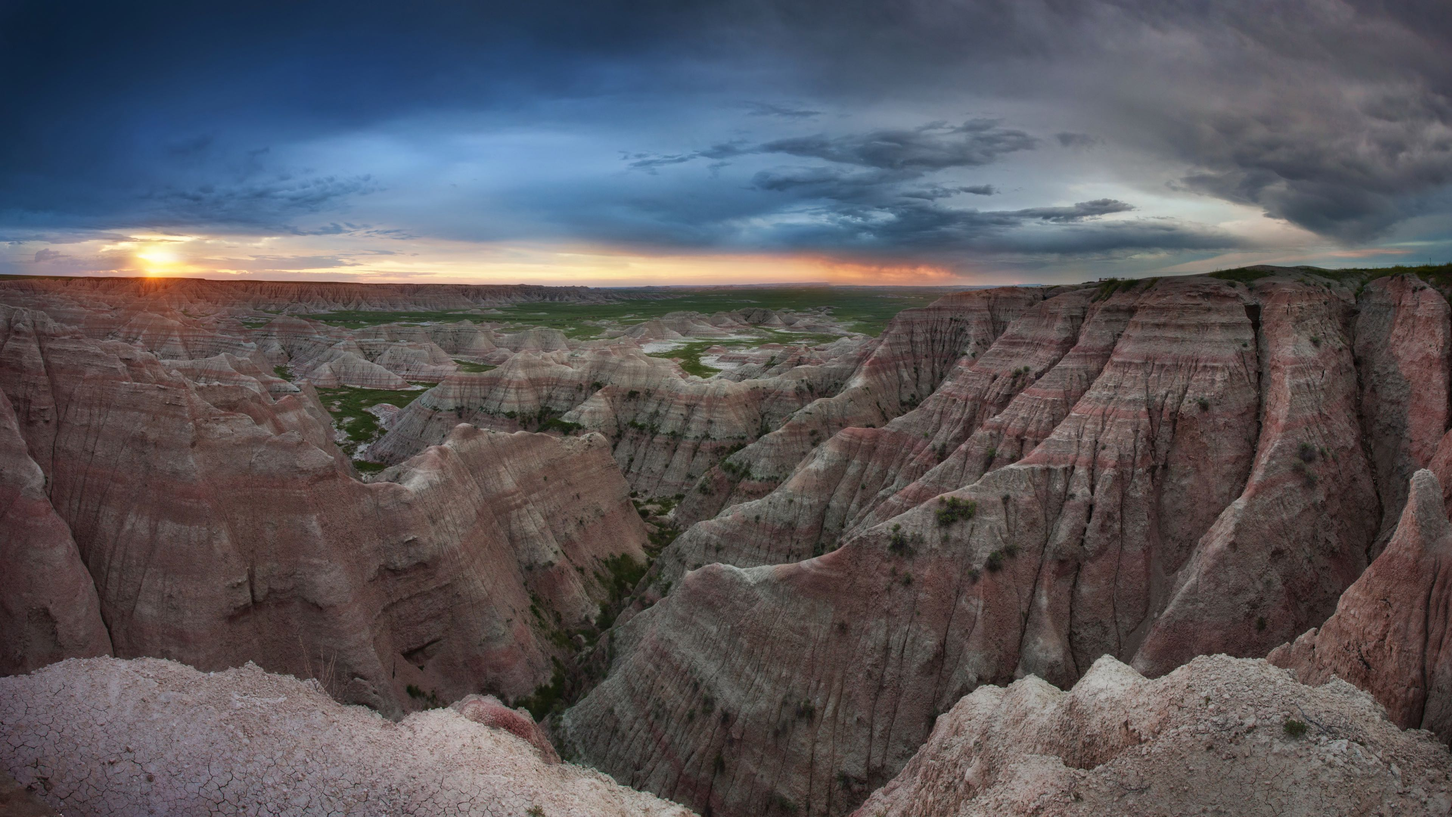
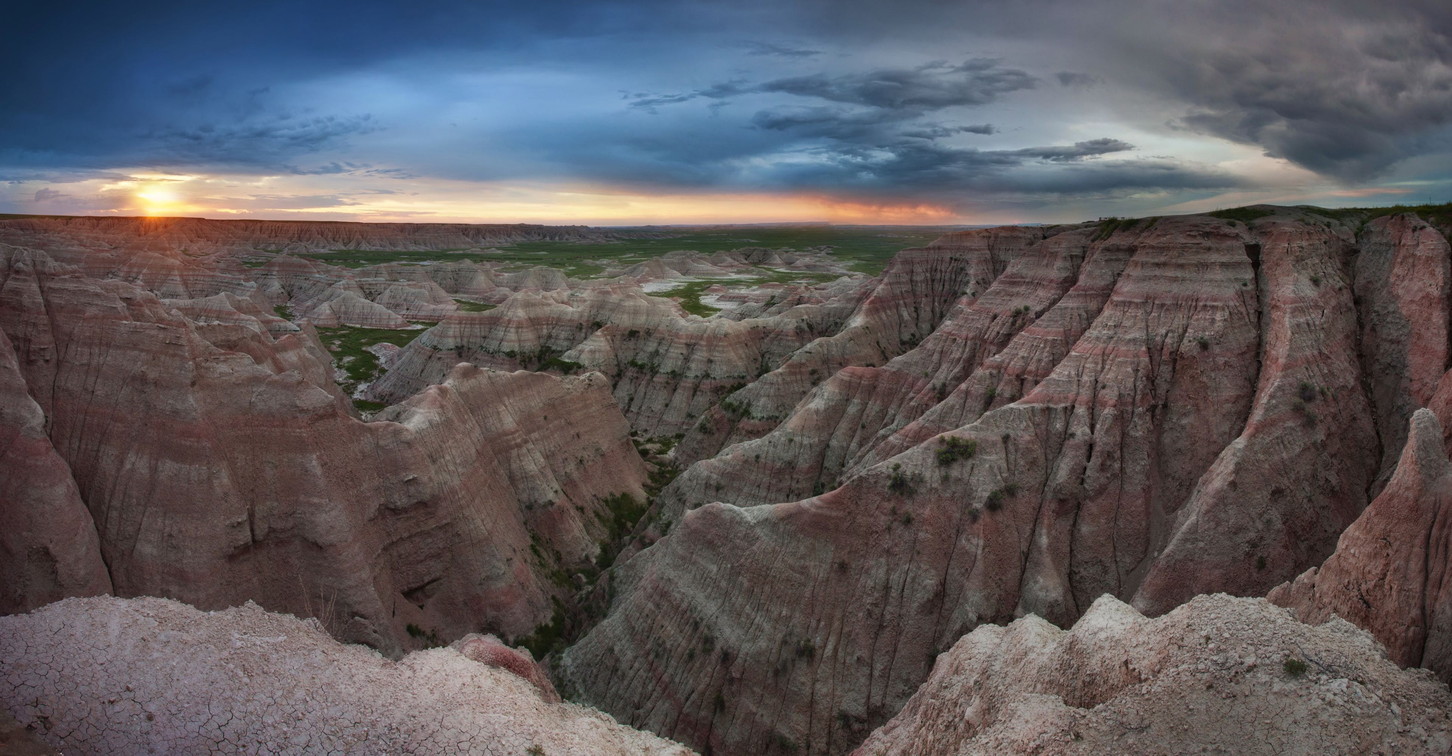
updated gitignore and css

diff --git a/assets/css/style.css b/assets/css/style.css
@@ -1,2 +1,1 @@
-@import url(http://fonts.googleapis.com/css?family=Open+Sans:300,400,800);@import url(http://fonts.googleapis.com/css?family=PT+Serif:400,700,400italic,700italic);html{font-size:100%;line-height:1.5em}html{font-family:sans-serif;-ms-text-size-adjust:100%;-webkit-text-size-adjust:100%}body{margin:0}article,aside,details,figcaption,figure,footer,header,hgroup,main,menu,nav,section,summary{display:block}audio,canvas,progress,video{display:inline-block;*display:inline;*zoom:1;vertical-align:baseline}audio:not([controls]){display:none;height:0}[hidden]{display:none}template{display:none}a{background-color:transparent}a:active,a:hover{outline:0}abbr[title]{border-bottom:1px dotted}b,strong{font-weight:bold}blockquote{margin:1.5em 40px}dfn{font-style:italic}h1{font-size:2em;line-height:1.5em;margin-top:0.75em;margin-bottom:0.75em}h2{font-size:1.5em;line-height:2em;margin-top:1em;margin-bottom:1em}h3{font-size:1.17em;line-height:1.28205em;margin-top:1.28205em;margin-bottom:1.28205em}h4{font-size:1em;line-height:1.5em;margin-top:1.5em;margin-bottom:1.5em}h5{font-size:0.83em;line-height:1.80723em;margin-top:1.80723em;margin-bottom:1.80723em}h6{font-size:0.67em;line-height:2.23881em;margin-top:2.23881em;margin-bottom:2.23881em}mark{background:#ff0;color:#000}p,pre{margin:1.5em 0}small{font-size:80%}sub,sup{font-size:75%;line-height:0;position:relative;vertical-align:baseline}sup{top:-0.5em}sub{bottom:-0.25em}dl,menu,ol,ul{margin:1.5em 0}dd{margin:0 0 0 40px}menu,ol,ul{padding:0 0 0 40px}nav ul,nav ol{list-style:none;list-style-image:none}img{border:0;-ms-interpolation-mode:bicubic}svg:not(:root){overflow:hidden}figure{margin:1.5em 40px}hr{-moz-box-sizing:content-box;-webkit-box-sizing:content-box;box-sizing:content-box;height:0}pre{overflow:auto}code,kbd,pre,samp{font-family:monospace, monospace;font-size:1em}form{margin:0}button,input,optgroup,select,textarea{color:inherit;font:inherit;margin:0;*font-family:sans-serif;*vertical-align:middle}button{overflow:visible}button,select{text-transform:none}button,html input[type="button"],input[type="reset"],input[type="submit"]{-webkit-appearance:button;cursor:pointer;*overflow:visible}button[disabled],html input[disabled]{cursor:default}button::-moz-focus-inner,input::-moz-focus-inner{border:0;padding:0}input{line-height:normal}input[type="checkbox"],input[type="radio"]{-moz-box-sizing:border-box;-webkit-box-sizing:border-box;box-sizing:border-box;padding:0;*height:13px;*width:13px}input[type="number"]::-webkit-inner-spin-button,input[type="number"]::-webkit-outer-spin-button{height:auto}input[type="search"]{-webkit-appearance:textfield;-moz-box-sizing:content-box;-webkit-box-sizing:content-box;box-sizing:content-box}input[type="search"]::-webkit-search-cancel-button,input[type="search"]::-webkit-search-decoration{-webkit-appearance:none}fieldset{margin:0 2px;border-color:#c0c0c0;border-top-width:0.0625em;border-top-style:solid;padding-top:0.4625em;border-bottom-width:0.0625em;border-bottom-style:solid;padding-bottom:0.9125em;border-left-width:0.0625em;border-left-style:solid;padding-left:0.875em;border-right-width:0.0625em;border-right-style:solid;padding-right:0.875em}legend{border:0;padding:0;*margin-left:-7px}textarea{overflow:auto}optgroup{font-weight:bold}table{border-collapse:collapse;border-spacing:0}td,th{padding:0}.button,.button-secondary,.button-tertiary,.button__outline{background-color:#2e8b57;display:inline-block;position:relative;font-family:"Open Sans",Helvetica,Arial,sans-serif;text-decoration:none;color:#fff;font-size:1em;line-height:1.2em;font-weight:normal;padding:.5em 1.5em;border:0;border-radius:4px;cursor:pointer;margin-bottom:.5em;-moz-transition:background-color 0.14s ease-in-out;-o-transition:background-color 0.14s ease-in-out;-webkit-transition:background-color 0.14s ease-in-out;transition:background-color 0.14s ease-in-out}.button:hover,.button-secondary:hover,.button-tertiary:hover,.button__outline:hover,.button:focus,.button-secondary:focus,.button-tertiary:focus,.button__outline:focus{color:#fff;text-decoration:none;background-color:#21653f}.button:active,.button-secondary:active,.button-tertiary:active,.button__outline:active{top:1px}.button-secondary{background-color:#233E5B}.button-secondary:hover{background-color:#152536}.button-tertiary{background-color:#aaa}.button-tertiary:hover{background-color:#919191}.button__outline{background-color:transparent;border:3px solid #2e8b57;color:#2e8b57}.button__outline:hover{background-color:#2e8b57;color:#fff}label{display:block;margin-bottom:5px}input[type=text],input[type=email],input[type=phone],input[type=password],input[type=number],input[type=search],textarea{background:#e6e6e6;padding:5px;outline:none;border:none;height:44px;width:300px;margin-bottom:.5rem}input[type=text]:focus,input[type=email]:focus,input[type=phone]:focus,input[type=password]:focus,input[type=number]:focus,input[type=search]:focus,textarea:focus{border:1px solid #2e8b57}input[type=text].full-width,input[type=email].full-width,input[type=phone].full-width,input[type=password].full-width,input[type=number].full-width,input[type=search].full-width,textarea.full-width{width:100%}textarea{height:132px}form{margin-bottom:40px}form .field{margin-bottom:20px}form .note{margin-top:5px;color:#aaa}form .req{font-style:italic}form .error .reason{margin-top:5px;color:#FF4136}form .error input[type=text],form .error input[type=email],form .error input[type=phone],form .error input[type=password],form .error input[type=number],form .error input[type=search],form .error textarea{border-color:#FF4136}table{width:100%;border:1px solid #d0d0d0;margin-bottom:1.5em}table caption{margin:0 0 7px;font-size:0.75em;color:#aaa;text-transform:uppercase;letter-spacing:1px}tr{border-bottom:1px solid #d0d0d0}tr:nth-child(even){background-color:#f7f7f7}td{padding:7px;border-right:1px solid #d0d0d0}td:last-child{border-right:0}th{background-color:#f7f7f7;border-bottom:1px solid #d0d0d0;border-right:1px solid #d0d0d0}th:last-child{border-right:0}.highlight{white-space:pre;overflow:auto;word-wrap:normal;-moz-border-radius:3px;-webkit-border-radius:3px;border-radius:3px;padding:20px;background:#343642;color:#C1C2C3}.highlight .hll{background-color:#ffc}.highlight .gd{color:#2e3436;background-color:#0e1416}.highlight .gr{color:#eeeeec;background-color:#c00}.highlight .gi{color:#babdb6;background-color:#1f2b2d}.highlight .go{color:#2c3032;background-color:#2c3032}.highlight .kt{color:#e3e7df}.highlight .ni{color:#888a85}.highlight .c,.highlight .cm,.highlight .c1,.highlight .cs{color:#8D9684}.highlight .err,.highlight .g,.highlight .l,.highlight .n,.highlight .x,.highlight .p,.highlight .ge,.highlight .gp,.highlight .gs,.highlight .gt,.highlight .ld,.highlight .s,.highlight .nc,.highlight .nd,.highlight .ne,.highlight .nl,.highlight .nn,.highlight .nx,.highlight .py,.highlight .ow,.highlight .w,.highlight .sb,.highlight .sc,.highlight .sd,.highlight .s2,.highlight .se,.highlight .sh,.highlight .si,.highlight .sx,.highlight .sr,.highlight .s1,.highlight .ss,.highlight .bp{color:#C1C2C3}.highlight .k,.highlight .kc,.highlight .kd,.highlight .kn,.highlight .kp,.highlight .kr,.highlight .nt{color:#729fcf}.highlight .cp,.highlight .gh,.highlight .gu,.highlight .na,.highlight .nf{color:#E9A94B}.highlight .m,.highlight .nb,.highlight .no,.highlight .mf,.highlight .mh,.highlight .mi,.highlight .mo,.highlight .il{color:#8ae234}.highlight .o{color:#989DAA}.highlight .nv,.highlight .vc,.highlight .vg,.highlight .vi{color:#fff}body{font-size:1em;line-height:1.45}body .intro{font-size:1.25em;line-height:1.7}@media (min-width: 43.75em){body{font-size:1em;line-height:1.375}}h1,.h1,h2,.h2,h3,.h3,h4,.h4,h5,.h5,h6,.h6{margin:.5rem 0 1.5rem;font-family:"Open Sans",Helvetica,Arial,sans-serif}h1,.h1{font-size:2em;line-height:1.25}@media (min-width: 43.75em){h1,.h1{font-size:2.5em;line-height:1.125}}@media (min-width: 56.25em){h1,.h1{font-size:3em;line-height:1.05}}h2,.h2{font-size:1.625em;line-height:1.15384615}@media (min-width: 43.75em){h2,.h2{font-size:2em;line-height:1.25}}@media (min-width: 56.25em){h2,.h2{font-size:2.25em;line-height:1.25}}h3,.h3{font-size:1.375em;line-height:1.13636364}@media (min-width: 43.75em){h3,.h3{font-size:1.5em;line-height:1.25}}@media (min-width: 56.25em){h3,.h3{font-size:1.75em;line-height:1.25}}h4,.h4{font-size:1.125em;line-height:1.11111111}@media (min-width: 43.75em){h4,.h4{line-height:1.22222222}}blockquote{font-size:1.25em;line-height:1.25;padding:0}@media (min-width: 43.75em){blockquote{font-size:1.5em;line-height:1.45833333}}.clearfix{zoom:1}.clearfix:before,.clearfix:after{content:"\0020";display:block;height:0;overflow:hidden}.clearfix:after{clear:both}html{box-sizing:border-box}*,*:before,*:after{box-sizing:inherit}body{font-family:"PT Serif",Georgia,Times,serif;line-height:1.75;font-size:112.5%;color:#111;overflow-x:hidden}body p,body ul{margin:0 0 2rem}::-moz-selection{background:#2e8b57;color:white}::selection{background:#2e8b57;color:white}img,video,audio,iframe,object{max-width:100%}.container{max-width:610px;margin-left:auto;margin-right:auto;padding:0 20px}.container:after{content:" ";display:block;clear:both}a{color:#2e8b57}a:hover{color:#1b5233}.nav-collapse{z-index:1}.nav-collapse ul{margin:0;padding:0;width:100%;display:block;list-style:none}.nav-collapse ul li{width:100%;display:block;background:#2e8b57;border-bottom:2px solid #349e63}.nav-collapse ul li a{color:white;text-decoration:none;display:block;padding:5px 2rem}.js .nav-collapse{clip:rect(0 0 0 0);max-height:0;position:absolute;display:block;overflow:hidden;zoom:1;clear:both;width:100%}.nav-collapse.opened{max-height:9999px}.nav-toggle{-webkit-tap-highlight-color:transparent;-webkit-touch-callout:none;-webkit-user-select:none;-moz-user-select:none;-ms-user-select:none;-o-user-select:none;user-select:none;float:right;line-height:2em;margin-top:.5em;background-color:#2e8b57;border-radius:4px;padding:0 .5em;color:white;text-decoration:none;position:relative;right:2rem;-webkit-transition:all 0.2s ease-in-out;transition:all 0.2s ease-in-out}.nav-toggle:hover{color:white;background-color:#21653f}.noList{list-style:none;padding-left:0;margin-left:0}dt{font-weight:bold}dd{margin:0 0 1.5rem}.post ul ul,.post ul ol,.post ol ul,.post ol ol{margin:0}.pageTitle{margin:2rem auto 1em;text-align:center}.content{padding-top:1em}.header{background-color:#2e8b57;background-image:url("../img/touring.jpg");background-size:cover;background-position:center center;color:white;padding:0;height:3em}.header .container{padding:0;max-width:100%;margin-left:auto;margin-right:auto}.header .container:after{content:" ";display:block;clear:both}.header h1{margin:0;float:left;padding-left:2rem;font-size:1em;line-height:3em;font-family:"Open Sans",Helvetica,Arial,sans-serif;font-weight:800;text-transform:uppercase}.header h1 a{color:white;text-decoration:none}.post .postTitle{text-align:center;margin-top:2rem;margin-bottom:1rem}.post blockquote{clear:both;margin:2.5em 0;padding:0;line-height:1.8;position:relative}.post blockquote:before{content:"";position:absolute;top:-1.25em;background:#2e8b57;display:block;height:2px;width:150px;left:calc(50% - 75px)}.post blockquote:after{content:"";position:absolute;bottom:-1.25em;background:#2e8b57;display:block;height:2px;width:150px;left:calc(50% - 75px)}.post .meta{text-align:center;color:gray;font-family:"Open Sans",Helvetica,Arial,sans-serif;font-weight:300}.post figure{margin:3rem 0}.post figure figcaption{text-align:center;font-size:.9em;font-style:italic;color:#5e5e5e}.post figure img{margin:0 auto;display:block}.post img{margin-bottom:2rem}.post .highlight{clear:both;margin-bottom:2rem}.post .dropcap{color:#2e8b57;margin-right:.45rem}.post .featuredImage{position:relative;margin-top:2rem}.post .featuredImage img{margin-bottom:0}.postNav{border-top:1px solid #e6e6e6;border-bottom:1px solid #e6e6e6;overflow:hidden}.postNav .prev,.postNav .next{display:block;width:100%;height:5rem;overflow:hidden;position:relative;font-family:"Open Sans",Helvetica,Arial,sans-serif;font-weight:800;font-size:.9em;text-transform:uppercase;text-align:center}.postNav .prev img,.postNav .next img{z-index:1;display:block;position:absolute;top:50%;-webkit-transform:translateY(-50%);-ms-transform:translateY(-50%);transform:translateY(-50%);left:0;width:100%;.
-			height:auto}.postNav .prev span,.postNav .next span{z-index:10;position:relative;padding:.5rem;position:absolute;top:50%;-webkit-transform:translateY(-50%);-ms-transform:translateY(-50%);transform:translateY(-50%);width:100%;line-height:1.4}.postNav .prev.image,.postNav .next.image{text-decoration:none;color:white;text-shadow:1px 1px 3px rgba(0,0,0,0.8);padding:0 .5rem;position:relative;-webkit-transition:all 0.2s ease-in-out;transition:all 0.2s ease-in-out}.postNav .prev:hover.image,.postNav .next:hover.image{opacity:.8}.postNav .prev span{left:0}.postNav .next span{right:0}.footer{text-align:center;padding:2rem 0}.footer .container{border-top:4px solid #d9d9d9;padding-top:.5em;max-width:90%;margin-left:auto;margin-right:auto}.footer .container:after{content:" ";display:block;clear:both}.footer .copy,.footer .footer-links{font-size:.8em}.footer .copy{margin-bottom:1rem}.footer-links ul{text-align:center}.footer-links ul li{display:inline-block}.footer-links ul li a{display:inline-block;width:30px;height:30px;-webkit-transition:all 0.2s ease-in-out;transition:all 0.2s ease-in-out}.footer-links ul li a svg{display:block;width:100%;height:100%}.footer-links ul li a svg .outer-shape{fill:#2e8b57}.footer-links ul li a svg .inner-shape{fill:white}.footer-links ul li:hover a svg .outer-shape{fill:#21653f}.pagination .next{float:left}.pagination .previous{float:right}.posts li{margin-bottom:4rem;position:relative}.posts li:before{content:"";position:absolute;bottom:-2rem;left:0;background:#e6e6e6;height:2px;width:60px}.posts li a{text-decoration:none}.posts li a:hover{text-decoration:underline}.posts li .date{color:gray;font-family:"Open Sans",Helvetica,Arial,sans-serif;font-weight:300;font-size:.8em}.posts li h3{margin:0 0 .5em}@media only screen and (min-width: 800px){.content{padding-top:0;position:relative;z-index:1}.content:after{z-index:-1;background:white;content:"";display:block;width:100%;height:5em;position:absolute;top:-2em;left:0;-webkit-transform:skewY(-2deg);-ms-transform:skewY(-2deg);transform:skewY(-2deg);-webkit-transform-origin:bottom left;-ms-transform-origin:bottom left;transform-origin:bottom left}.container{max-width:800px;margin-left:auto;margin-right:auto;padding:0}.container:after{content:" ";display:block;clear:both}#home .posts,#home .pageTitle,#home .pagination{width:74.46809%;float:left;margin-right:2.12766%;float:none;margin:0 auto 1.5em}#home .pageTitle{margin:2rem auto 1em}.header{height:15em;position:relative;padding-bottom:2em}.header .container{position:relative;top:50%;-webkit-transform:translateY(-50%);-ms-transform:translateY(-50%);transform:translateY(-50%);max-width:800px;margin-left:auto;margin-right:auto}.header .container:after{content:" ";display:block;clear:both}.header h1{font-size:3em;line-height:1;letter-spacing:-3px;padding-left:0}.header nav{float:left;clear:left}.header nav ul{margin:0}.header nav ul li{display:inline;line-height:3em;background:none;padding:0 5px;border:none}.header nav ul li a{color:white;font-size:.9em;text-decoration:none;padding:0 .25em}.header nav ul li a:hover{color:#ccc}.header nav ul li.current{padding-bottom:.25em;border-bottom:4px solid rgba(255,255,255,0.4)}.js .nav-collapse{position:relative;max-height:none}.js .nav-collapse.closed{max-height:none}.js .nav-collapse ul li a{display:inline-block}.nav-toggle{display:none}.post h1,.post h2,.post h3,.post h4,.post h5,.post h6,.post p,.post ul,.post ol,.post dl,.post .pageTitle{width:74.46809%;float:left;margin-right:2.12766%;float:none;margin:0 auto 2rem}.post h1,.post .h1,.post h2,.post .h2,.post h3,.post .h3,.post h4,.post .h4,.post h5,.post .h5,.post h6,.post .h6{margin:1rem auto}.post .pageTitle{margin:2rem auto 1em}.post .featuredImage{position:relative;margin-top:2rem}.post .featuredImage:before{background:white;content:"";display:block;width:100%;height:4em;position:absolute;top:-2em;left:0;-webkit-transform:skewY(-2deg);-ms-transform:skewY(-2deg);transform:skewY(-2deg);-webkit-transform-origin:bottom left;-ms-transform-origin:bottom left;transform-origin:bottom left}.postNav .prev,.postNav .next{width:50%}.postNav .prev{float:left;text-align:left}.postNav .next{text-align:right;float:right}.footer-links{float:right}.footer .copy{float:left}.footer .container{padding:1rem 0;max-width:800px;margin-left:auto;margin-right:auto}.footer .container:after{content:" ";display:block;clear:both}.contactContent{width:48.93617%;float:left;margin-right:2.12766%}#contact form{width:48.93617%;float:right;margin-right:0}}
+@import url(http://fonts.googleapis.com/css?family=Open+Sans:300,400,800);@import url(http://fonts.googleapis.com/css?family=PT+Serif:400,700,400italic,700italic);.button,.button-secondary,.button-tertiary,.button__outline{background-color:darkred;display:inline-block;position:relative;font-family:"Open Sans",Helvetica,Arial,sans-serif;text-decoration:none;color:#fff;font-size:1em;line-height:1.2em;font-weight:normal;padding:.5em 1.5em;border:0;border-radius:4px;cursor:pointer;margin-bottom:.5em;-moz-transition:background-color .14s ease-in-out;-o-transition:background-color .14s ease-in-out;-webkit-transition:background-color .14s ease-in-out;transition:background-color .14s ease-in-out}.button:hover,.button-secondary:hover,.button-tertiary:hover,.button__outline:hover,.button:focus,.button-secondary:focus,.button-tertiary:focus,.button__outline:focus{color:#fff;text-decoration:none;background-color:#580000}.button:active,.button-secondary:active,.button-tertiary:active,.button__outline:active{top:1px}.button-secondary{background-color:#233E5B}.button-secondary:hover{background-color:#152536}.button-tertiary{background-color:#aaa}.button-tertiary:hover{background-color:#919191}.button__outline{background-color:transparent;border:3px solid darkred;color:darkred}.button__outline:hover{background-color:darkred;color:#fff}label{display:block;margin-bottom:5px}input[type=text],input[type=email],input[type=phone],input[type=password],input[type=number],input[type=search],textarea{background:#e6e6e6;padding:5px;outline:none;border:none;height:44px;width:300px;margin-bottom:.5rem}input[type=text]:focus,input[type=email]:focus,input[type=phone]:focus,input[type=password]:focus,input[type=number]:focus,input[type=search]:focus,textarea:focus{border:1px solid darkred}input[type=text].full-width,input[type=email].full-width,input[type=phone].full-width,input[type=password].full-width,input[type=number].full-width,input[type=search].full-width,textarea.full-width{width:100%}textarea{height:132px}form{margin-bottom:40px}form .field{margin-bottom:20px}form .note{margin-top:5px;color:#aaa}form .req{font-style:italic}form .error .reason{margin-top:5px;color:#FF4136}form .error input[type=text],form .error input[type=email],form .error input[type=phone],form .error input[type=password],form .error input[type=number],form .error input[type=search],form .error textarea{border-color:#FF4136}table{width:100%;border:1px solid #d0d0d0;margin-bottom:1.5em}table caption{margin:0 0 7px;font-size:0.75em;color:#aaa;text-transform:uppercase;letter-spacing:1px}tr{border-bottom:1px solid #d0d0d0}tr:nth-child(even){background-color:#f7f7f7}td{padding:7px;border-right:1px solid #d0d0d0}td:last-child{border-right:0}th{background-color:#f7f7f7;border-bottom:1px solid #d0d0d0;border-right:1px solid #d0d0d0}th:last-child{border-right:0}.highlight{white-space:pre;overflow:auto;word-wrap:normal;-moz-border-radius:3px;-webkit-border-radius:3px;border-radius:3px;padding:20px;background:#343642;color:#C1C2C3}.highlight .hll{background-color:#ffc}.highlight .gd{color:#2e3436;background-color:#0e1416}.highlight .gr{color:#eeeeec;background-color:#c00}.highlight .gi{color:#babdb6;background-color:#1f2b2d}.highlight .go{color:#2c3032;background-color:#2c3032}.highlight .kt{color:#e3e7df}.highlight .ni{color:#888a85}.highlight .c,.highlight .cm,.highlight .c1,.highlight .cs{color:#8D9684}.highlight .err,.highlight .g,.highlight .l,.highlight .n,.highlight .x,.highlight .p,.highlight .ge,.highlight .gp,.highlight .gs,.highlight .gt,.highlight .ld,.highlight .s,.highlight .nc,.highlight .nd,.highlight .ne,.highlight .nl,.highlight .nn,.highlight .nx,.highlight .py,.highlight .ow,.highlight .w,.highlight .sb,.highlight .sc,.highlight .sd,.highlight .s2,.highlight .se,.highlight .sh,.highlight .si,.highlight .sx,.highlight .sr,.highlight .s1,.highlight .ss,.highlight .bp{color:#C1C2C3}.highlight .k,.highlight .kc,.highlight .kd,.highlight .kn,.highlight .kp,.highlight .kr,.highlight .nt{color:#729fcf}.highlight .cp,.highlight .gh,.highlight .gu,.highlight .na,.highlight .nf{color:#E9A94B}.highlight .m,.highlight .nb,.highlight .no,.highlight .mf,.highlight .mh,.highlight .mi,.highlight .mo,.highlight .il{color:#8ae234}.highlight .o{color:#989DAA}.highlight .nv,.highlight .vc,.highlight .vg,.highlight .vi{color:#fff}body{font-size:1em;line-height:1.45}body .intro{font-size:1.25em;line-height:1.7}@media (min-width: 43.75em){body{font-size:1em;line-height:1.375}}h1,.h1,h2,.h2,h3,.h3,h4,.h4,h5,.h5,h6,.h6{margin:.5rem 0 1.5rem;font-family:"Open Sans",Helvetica,Arial,sans-serif}h1,.h1{font-size:2em;line-height:1.25}@media (min-width: 43.75em){h1,.h1{font-size:2.5em;line-height:1.125}}@media (min-width: 56.25em){h1,.h1{font-size:3em;line-height:1.05}}h2,.h2{font-size:1.625em;line-height:1.15384615}@media (min-width: 43.75em){h2,.h2{font-size:2em;line-height:1.25}}@media (min-width: 56.25em){h2,.h2{font-size:2.25em;line-height:1.25}}h3,.h3{font-size:1.375em;line-height:1.13636364}@media (min-width: 43.75em){h3,.h3{font-size:1.5em;line-height:1.25}}@media (min-width: 56.25em){h3,.h3{font-size:1.75em;line-height:1.25}}h4,.h4{font-size:1.125em;line-height:1.11111111}@media (min-width: 43.75em){h4,.h4{line-height:1.22222222}}blockquote{font-size:1.25em;line-height:1.25;padding:0}@media (min-width: 43.75em){blockquote{font-size:1.5em;line-height:1.45833333}}.clearfix{zoom:1}.clearfix:before,.clearfix:after{content:"\0020";display:block;height:0;overflow:hidden}.clearfix:after{clear:both}html{box-sizing:border-box}*,*:before,*:after{box-sizing:inherit}body{font-family:"PT Serif",Georgia,Times,serif;line-height:1.75;font-size:112.5%;color:#111;overflow-x:hidden;margin:0}body p,body ul{margin:0 0 2rem}::-moz-selection{background:darkred;color:white}::selection{background:darkred;color:white}img,video,audio,iframe,object{max-width:100%}.container{max-width:610px;margin-left:auto;margin-right:auto;padding:0 20px}.container:after{content:" ";display:block;clear:both}a{color:darkred}a:hover{color:#3f0000}.nav-collapse{z-index:1}.nav-collapse ul{margin:0;padding:0;width:100%;display:block;list-style:none}.nav-collapse ul li{width:100%;display:block;background:darkred;border-bottom:2px solid #a50000}.nav-collapse ul li a{color:white;text-decoration:none;display:block;padding:5px 2rem}.js .nav-collapse{clip:rect(0 0 0 0);max-height:0;position:absolute;display:block;overflow:hidden;zoom:1;clear:both;width:100%}.nav-collapse.opened{max-height:9999px}.nav-toggle{-webkit-tap-highlight-color:transparent;-webkit-touch-callout:none;-webkit-user-select:none;-moz-user-select:none;-ms-user-select:none;-o-user-select:none;user-select:none;float:right;line-height:2em;margin-top:.5em;background-color:darkred;border-radius:4px;padding:0 .5em;color:white;text-decoration:none;position:relative;right:2rem;-webkit-transition:all 0.2s ease-in-out;transition:all 0.2s ease-in-out}.nav-toggle:hover{color:white;background-color:#580000}.noList{list-style:none;padding-left:0;margin-left:0}dt{font-weight:bold}dd{margin:0 0 1.5rem}.post ul ul,.post ul ol,.post ol ul,.post ol ol{margin:0}.pageTitle{margin:2rem auto 1em;text-align:center}.content{padding-top:1em}.header{background-color:darkred;background-image:url("../img/badlands.jpg");background-size:cover;background-position:center center;color:white;padding:0;height:3em}.header .container{padding:0;max-width:100%;margin-left:auto;margin-right:auto}.header .container:after{content:" ";display:block;clear:both}.header h1{margin:0;float:left;padding-left:2rem;font-size:1em;line-height:3em;font-family:"Open Sans",Helvetica,Arial,sans-serif;font-weight:800;text-transform:uppercase}.header h1 a{color:white;text-decoration:none}.post .postTitle{text-align:center;margin-top:2rem;margin-bottom:1rem}.post blockquote{clear:both;margin:2.5em 0;padding:0;line-height:1.8;position:relative}.post blockquote:before{content:"";position:absolute;top:-1.25em;background:darkred;display:block;height:2px;width:150px;left:calc(50% - 75px)}.post blockquote:after{content:"";position:absolute;bottom:-1.25em;background:darkred;display:block;height:2px;width:150px;left:calc(50% - 75px)}.post .meta{text-align:center;color:gray;font-family:"Open Sans",Helvetica,Arial,sans-serif;font-weight:300}.post figure{margin:3rem 0}.post figure figcaption{text-align:center;font-size:.9em;font-style:italic;color:#5e5e5e}.post figure img{margin:0 auto;display:block}.post img{margin-bottom:2rem}.post .highlight{clear:both;margin-bottom:2rem}.post .dropcap{color:darkred;margin-right:.45rem}.post .featuredImage{position:relative;margin-top:2rem}.post .featuredImage img{margin-bottom:0}.postNav{border-top:1px solid #e6e6e6;border-bottom:1px solid #e6e6e6;overflow:hidden}.postNav .prev,.postNav .next{display:block;width:100%;height:5rem;overflow:hidden;position:relative;font-family:"Open Sans",Helvetica,Arial,sans-serif;font-weight:800;font-size:.9em;text-transform:uppercase;text-align:center}.postNav .prev img,.postNav .next img{z-index:1;display:block;position:absolute;top:50%;-webkit-transform:translateY(-50%);-ms-transform:translateY(-50%);transform:translateY(-50%);left:0;width:100%;height:auto}.postNav .prev span,.postNav .next span{z-index:10;position:relative;padding:.5rem;position:absolute;top:50%;-webkit-transform:translateY(-50%);-ms-transform:translateY(-50%);transform:translateY(-50%);width:100%;line-height:1.4}.postNav .prev.image,.postNav .next.image{text-decoration:none;color:white;text-shadow:1px 1px 3px rgba(0,0,0,0.8);padding:0 .5rem;position:relative;-webkit-transition:all 0.2s ease-in-out;transition:all 0.2s ease-in-out}.postNav .prev:hover.image,.postNav .next:hover.image{opacity:.8}.postNav .prev span{left:0}.postNav .next span{right:0}.footer{text-align:center;padding:2rem 0}.footer .container{border-top:4px solid #d9d9d9;padding-top:.5em;max-width:90%;margin-left:auto;margin-right:auto}.footer .container:after{content:" ";display:block;clear:both}.footer .copy,.footer .footer-links{font-size:.8em}.footer .copy{margin-bottom:1rem}.footer-links ul{text-align:center}.footer-links ul li{display:inline-block}.footer-links ul li a{display:inline-block;width:30px;height:30px;-webkit-transition:all 0.2s ease-in-out;transition:all 0.2s ease-in-out}.footer-links ul li a svg{display:block;width:100%;height:100%}.footer-links ul li a svg .outer-shape{fill:darkred}.footer-links ul li a svg .inner-shape{fill:white}.footer-links ul li:hover a svg .outer-shape{fill:#580000}.pagination .next{float:left}.pagination .previous{float:right}.posts li{margin-bottom:4rem;position:relative}.posts li:before{content:"";position:absolute;bottom:-2rem;left:0;background:#e6e6e6;height:2px;width:60px}.posts li a{text-decoration:none}.posts li a:hover{text-decoration:underline}.posts li .date{color:gray;font-family:"Open Sans",Helvetica,Arial,sans-serif;font-weight:300;font-size:.8em}.posts li h3{margin:0 0 .5em}@media only screen and (min-width: 800px){.content{padding-top:0;position:relative;z-index:1}.content:after{z-index:-1;background:white;content:"";display:block;width:100%;height:5em;position:absolute;top:-2em;left:0;-webkit-transform:skewY(-2deg);-ms-transform:skewY(-2deg);transform:skewY(-2deg);-webkit-transform-origin:bottom left;-ms-transform-origin:bottom left;transform-origin:bottom left}.container{max-width:800px;margin-left:auto;margin-right:auto;padding:0}.container:after{content:" ";display:block;clear:both}#home .posts,#home .pageTitle,#home .pagination{width:74.46809%;float:left;margin-right:2.12766%;float:none;margin:0 auto 1.5em}#home .pageTitle{margin:2rem auto 1em}.header{height:15em;position:relative;padding-bottom:2em}.header .container{position:relative;top:50%;-webkit-transform:translateY(-50%);-ms-transform:translateY(-50%);transform:translateY(-50%);max-width:800px;margin-left:auto;margin-right:auto}.header .container:after{content:" ";display:block;clear:both}.header h1{font-size:3em;line-height:1;letter-spacing:-3px;padding-left:0}.header nav{float:left;clear:left}.header nav ul{margin:0}.header nav ul li{display:inline;line-height:3em;background:none;padding:0 5px;border:none}.header nav ul li a{color:white;font-size:.9em;text-decoration:none;padding:0 .25em}.header nav ul li a:hover{color:#ccc}.header nav ul li.current{padding-bottom:.25em;border-bottom:4px solid rgba(255,255,255,0.4)}.js .nav-collapse{position:relative;max-height:none}.js .nav-collapse.closed{max-height:none}.js .nav-collapse ul li a{display:inline-block}.nav-toggle{display:none}.post h1,.post h2,.post h3,.post h4,.post h5,.post h6,.post p,.post ul,.post ol,.post dl,.post .pageTitle{width:74.46809%;float:left;margin-right:2.12766%;float:none;margin:0 auto 2rem}.post h1,.post .h1,.post h2,.post .h2,.post h3,.post .h3,.post h4,.post .h4,.post h5,.post .h5,.post h6,.post .h6{margin:1rem auto}.post .pageTitle{margin:2rem auto 1em}.post .featuredImage{position:relative;margin-top:2rem}.post .featuredImage:before{background:white;content:"";display:block;width:100%;height:4em;position:absolute;top:-2em;left:0;-webkit-transform:skewY(-2deg);-ms-transform:skewY(-2deg);transform:skewY(-2deg);-webkit-transform-origin:bottom left;-ms-transform-origin:bottom left;transform-origin:bottom left}.postNav .prev,.postNav .next{width:50%}.postNav .prev{float:left;text-align:left}.postNav .next{text-align:right;float:right}.footer-links{float:right}.footer .copy{float:left}.footer .container{padding:1rem 0;max-width:800px;margin-left:auto;margin-right:auto}.footer .container:after{content:" ";display:block;clear:both}.contactContent{width:48.93617%;float:left;margin-right:2.12766%}#contact form{width:48.93617%;float:right;margin-right:0}}

diff --git a/assets/scss/_config.scss b/assets/scss/_config.scss
@@ -25,11 +25,11 @@ $grey:   #aaa;
 $black:  #111;
 
 // Color variables
-$primary-color: seagreen;
+$primary-color: darkred;
 $secondary-color: #233E5B;
 $tertiary-color: #aaa;
 $link-color: $primary-color;
-$background-color: seagreen;
+$background-color: darkred;
 
 $bad-color: $red; // Bad color for errors, validation etc.
 $good-color: $green; // Good color for success etc.

diff --git a/assets/scss/breakpoints/_mobileup.scss b/assets/scss/breakpoints/_mobileup.scss
@@ -16,6 +16,7 @@ body {
 	font-size: 112.5%; // 18px base font size
 	color: $black;
 	overflow-x: hidden;
+	margin:0;
 
 	p , ul {
 		margin: 0 0 2rem;
